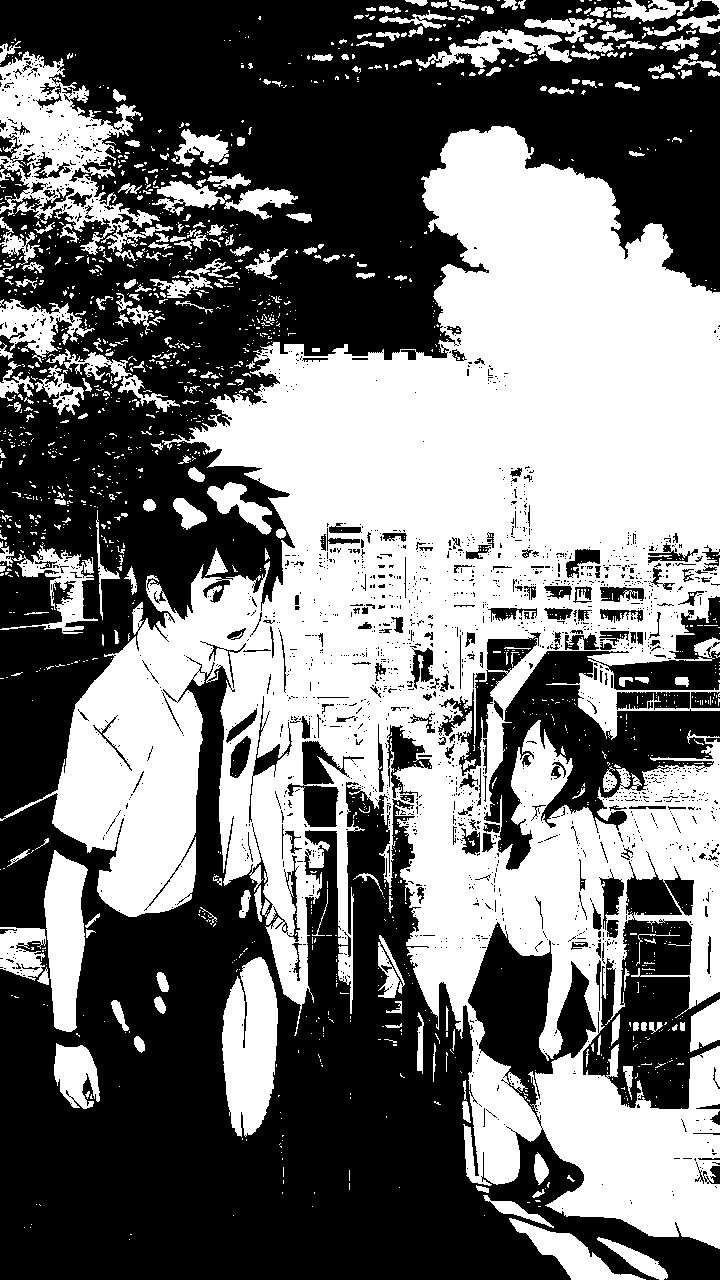
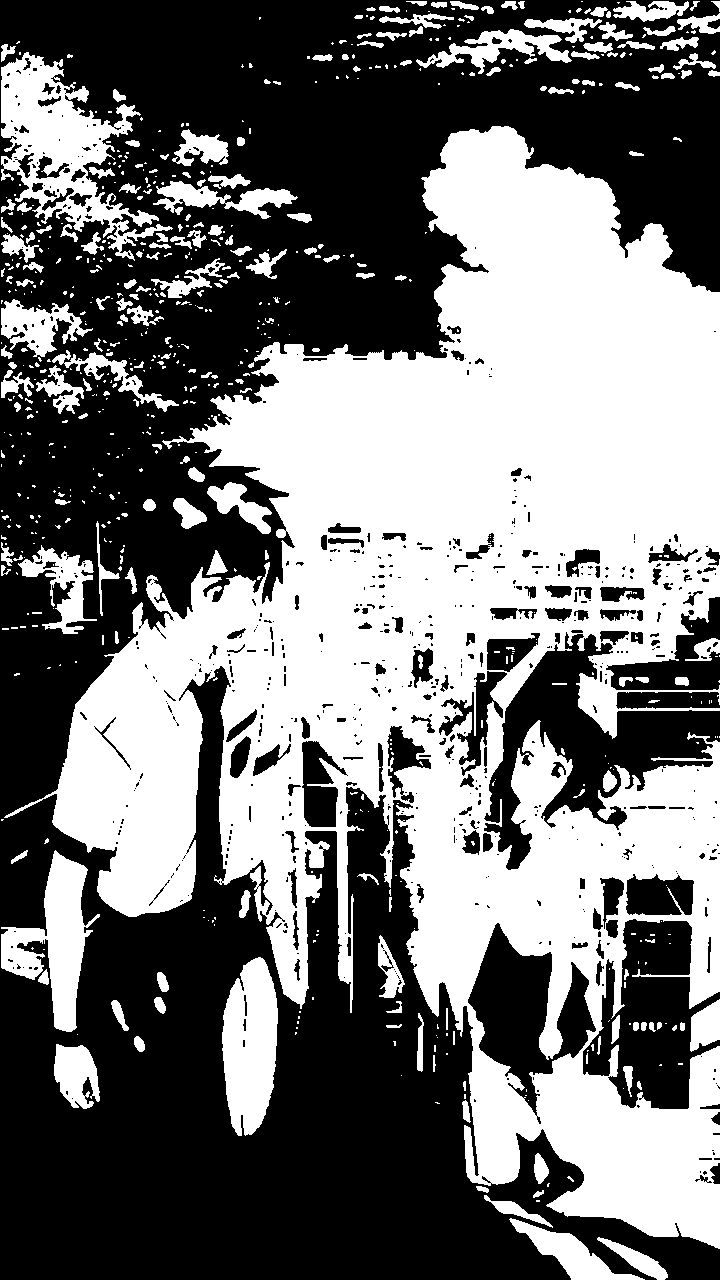
test: everycase passed

diff --git a/src/__test__/index.test.ts b/src/__test__/index.test.ts
@@ -1,0 +1,18 @@
+import { expect, test, describe } from 'bun:test'
+import { ImageModule } from '../modules/image.module'
+import { ThresholdModule } from '../modules/threshold.module'
+
+describe('otsu_test', async () => {
+    for (let i = 1; i <= 3; i++) {
+        const imagePath = `images/jpg/img-${i}.jpg`
+        const imageModule = new ImageModule(imagePath)
+        const transformed = await imageModule.transform()
+        test(`otsu_test_${i}`, async () => {
+            const threshold = new ThresholdModule()
+            const t = threshold.otsu(transformed)
+            const binary = imageModule.apply(t, transformed)
+            expect(await imageModule.build(binary)).toBe(`Image saved to output/jpg/img-${i}.jpg`)
+        })
+    }
+
+})

diff --git a/src/index.ts b/src/index.ts
@@ -8,7 +8,7 @@ import { ThresholdModule } from "./modules/threshold.module"
 async function main() {
     try {
         console.log('Running script')
-        const imagePath = 'images/jpg/img-3.jpg'
+        const imagePath = 'images/jpg/img-2.jpg'
         const imageModule = new ImageModule(imagePath)
         const transformed = await imageModule.transform()
 
